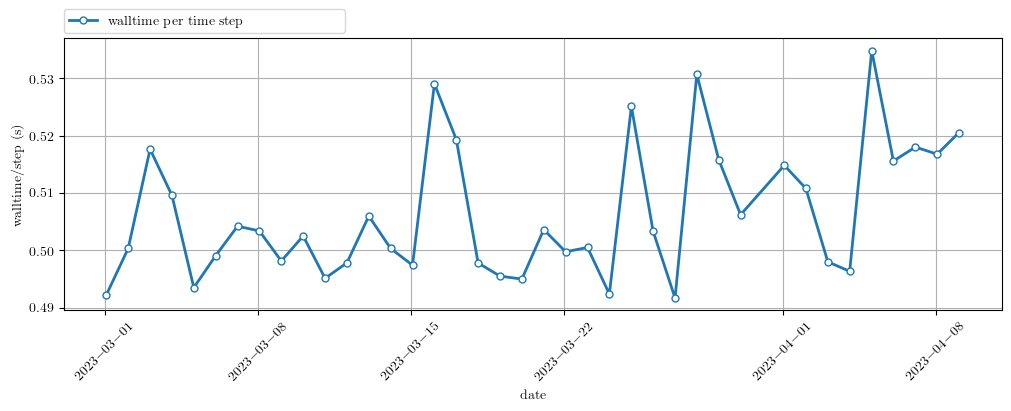
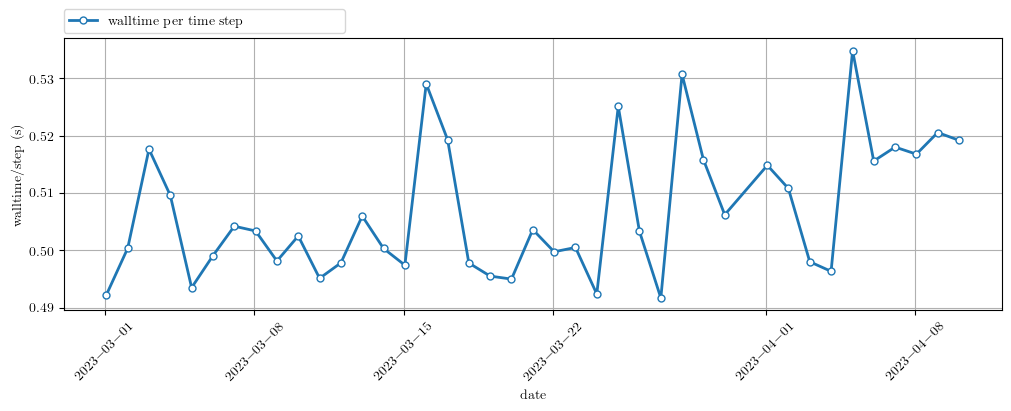
Automatic timing summary commit: lassen708 2023-04-10 01:01

diff --git a/README.md b/README.md
@@ -1,4 +1,4 @@
-Timings last ran on: 2023.04.09
+Timings last ran on: 2023.04.10
 
 # Status of production timings
 
